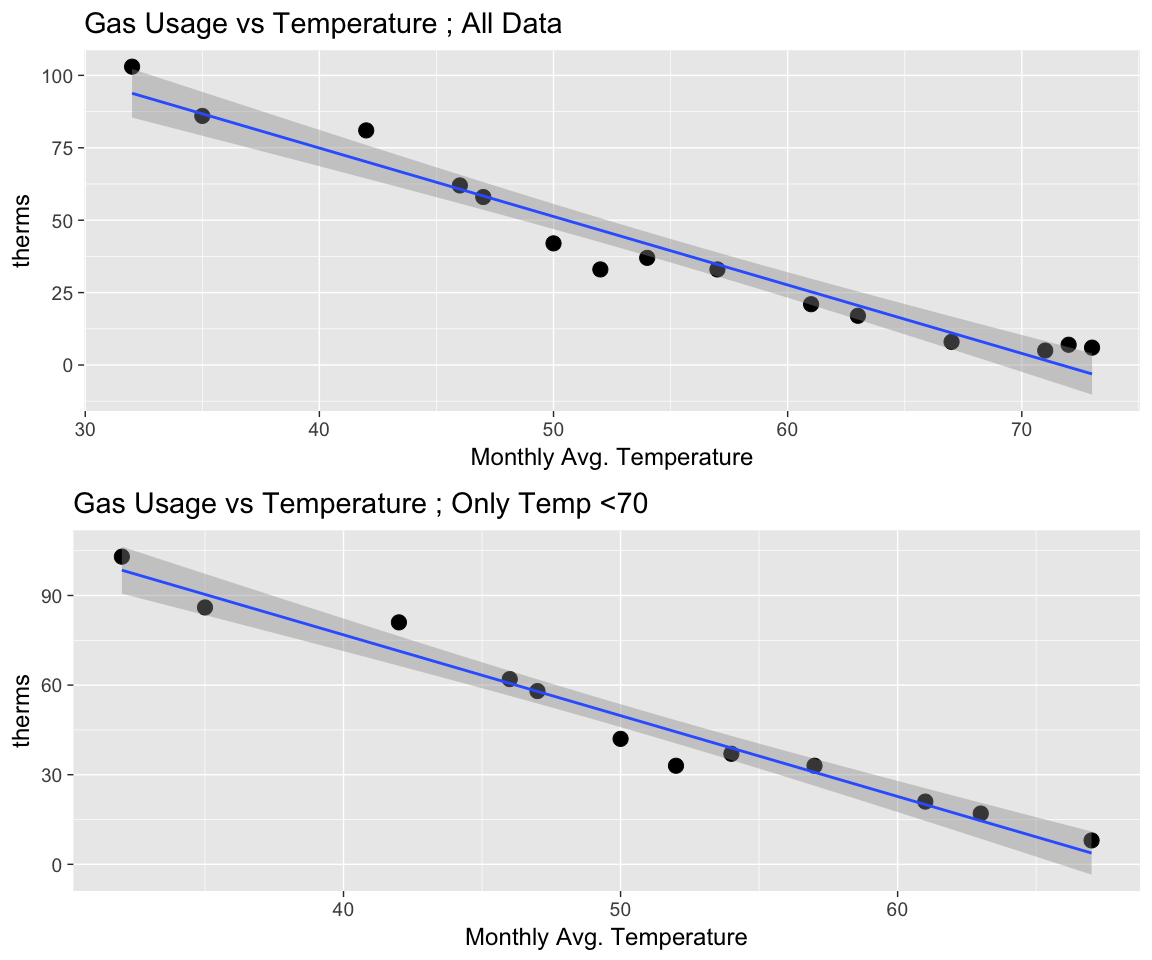
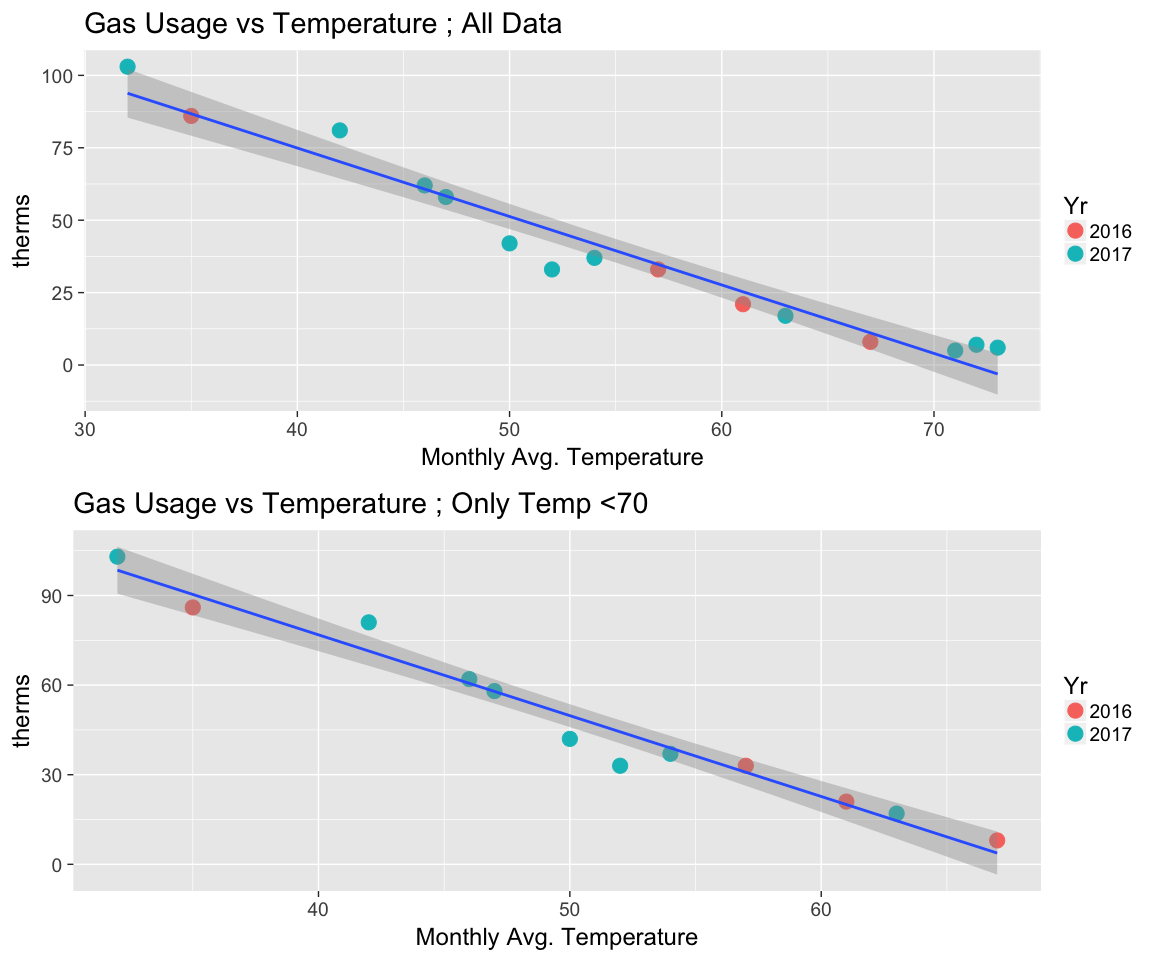
color points by year

diff --git a/_posts/2017-12-11-energy_use.md b/_posts/2017-12-11-energy_use.md
@@ -36,18 +36,20 @@ gas <- read.csv('data/xcel_gas.csv',stringsAsFactors = FALSE)
 gas <-gas %>% rename(Date=Last.Read.Date,therms=Gas.Usage..Therms.,avgTemp=Average.Temperature) %>%
   select(Date,therms,avgTemp) %>%
   mutate(Date=mdy(Date)) %>%
+  filter(!is.na(Date)) %>%
+  mutate(Yr=as.factor(lubridate::year(Date))) %>%
   mutate(avgTemp=as.integer(gsub("[^0-9]", "", avgTemp) ))
 head(gas)
 ```
 
 ```
-##         Date therms avgTemp
-## 1 2017-11-16     58      47
-## 2 2017-10-18     37      54
-## 3 2017-09-18      7      72
-## 4 2017-08-17      5      71
-## 5 2017-07-19      6      73
-## 6 2017-06-19     17      63
+##         Date therms avgTemp   Yr
+## 1 2017-11-16     58      47 2017
+## 2 2017-10-18     37      54 2017
+## 3 2017-09-18      7      72 2017
+## 4 2017-08-17      5      71 2017
+## 5 2017-07-19      6      73 2017
+## 6 2017-06-19     17      63 2017
 ```
 
 
@@ -60,19 +62,21 @@ ele <- read.csv('data/xcel_elec.csv',stringsAsFactors = FALSE)
 ele <- ele %>% rename(Date=Last.Read.Date,kWh=Electric.Usage..kWh.,avgTemp=Average.Temperature) %>%
   select(Date,kWh,avgTemp) %>%
   mutate(Date=mdy(Date)) %>%
+  filter(!is.na(Date)) %>%
+  mutate(Yr=as.factor(lubridate::year(Date))) %>%
   mutate(avgTemp=as.integer(gsub("[^0-9]", "", avgTemp) ))
 
 head(ele)
 ```
 
 ```
-##         Date kWh avgTemp
-## 1 2017-11-16 340      47
-## 2 2017-10-18 324      54
-## 3 2017-09-18 376      72
-## 4 2017-08-17 323      71
-## 5 2017-07-19 331      73
-## 6 2017-06-19 304      63
+##         Date kWh avgTemp   Yr
+## 1 2017-11-16 340      47 2017
+## 2 2017-10-18 324      54 2017
+## 3 2017-09-18 376      72 2017
+## 4 2017-08-17 323      71 2017
+## 5 2017-07-19 331      73 2017
+## 6 2017-06-19 304      63 2017
 ```
 
 
@@ -102,7 +106,7 @@ p3 <-ele %>% ggplot(aes(Date,kWh))+
 gridExtra::grid.arrange(p1,p2,p3)
 ```
 
-![](/images/energy_use/unnamed-chunk-5-1.png)<!-- -->
+![](/Users/Andy/andypicke.github.io/images/energy_use/unnamed-chunk-5-1.png)<!-- -->
 
 
 ### Energy use vs temperature
@@ -115,14 +119,15 @@ gridExtra::grid.arrange(p1,p2,p3)
 
 ```r
 p1 <- gas %>% ggplot(aes(avgTemp,therms))+
-  geom_point(size=5)+
+  geom_point(size=5,aes(col=Yr))+
   geom_smooth(method='lm')+
   ggtitle("Gas Usage vs Temperature ; All Data")+
    xlab("Monthly Avg. Temperature")
 
-p2 <- gas %>% filter(avgTemp<70) %>%
+gas2 <- gas %>% filter(avgTemp<70)
+p2 <-  gas2 %>%
   ggplot(aes(avgTemp,therms))+
-  geom_point(size=5)+
+  geom_point(size=5,aes(col=Yr))+
   geom_smooth(method='lm')+
   ggtitle("Gas Usage vs Temperature ; Only Temp <70")+
    xlab("Monthly Avg. Temperature")
@@ -131,7 +136,7 @@ p2 <- gas %>% filter(avgTemp<70) %>%
 gridExtra::grid.arrange(p1,p2)
 ```
 
-![](/images/energy_use/unnamed-chunk-6-1.png)<!-- -->
+![](/Users/Andy/andypicke.github.io/images/energy_use/unnamed-chunk-6-1.png)<!-- -->
 
 ### Linear regression vs Temperature
 
@@ -180,7 +185,7 @@ broom::tidy(model2)
 
 ```r
 p1 <- ele %>% ggplot(aes(avgTemp,kWh))+
-  geom_point(size=5)+
+  geom_point(size=5, aes(col=Yr) )+
   geom_smooth(method = 'lm')+
   ggtitle("kWh vs. Temperature : All Data")+
    xlab("Monthly Avg. Temperature")
@@ -188,7 +193,7 @@ p1 <- ele %>% ggplot(aes(avgTemp,kWh))+
 
 p2 <- ele %>% filter(kWh<450 & kWh>200) %>%
   ggplot(aes(avgTemp,kWh))+
-  geom_point(size=5)+
+  geom_point(size=5, aes(col=Yr) )+
   geom_smooth(method = 'lm') +
   ggtitle("kWh vs. Temperature : Sept 2016 and January 2017 Removed")+
  xlab("Monthly Avg. Temperature")
@@ -196,7 +201,7 @@ p2 <- ele %>% filter(kWh<450 & kWh>200) %>%
 gridExtra::grid.arrange(p1,p2)
 ```
 
-![](/images/energy_use/unnamed-chunk-9-1.png)<!-- -->
+![](/Users/Andy/andypicke.github.io/images/energy_use/unnamed-chunk-9-1.png)<!-- -->
 
 ### Linear Regression vs. temperature
 A linear regression of electricty use vs temperature shows no significant relationship (the slope pvalue is 0.5).
